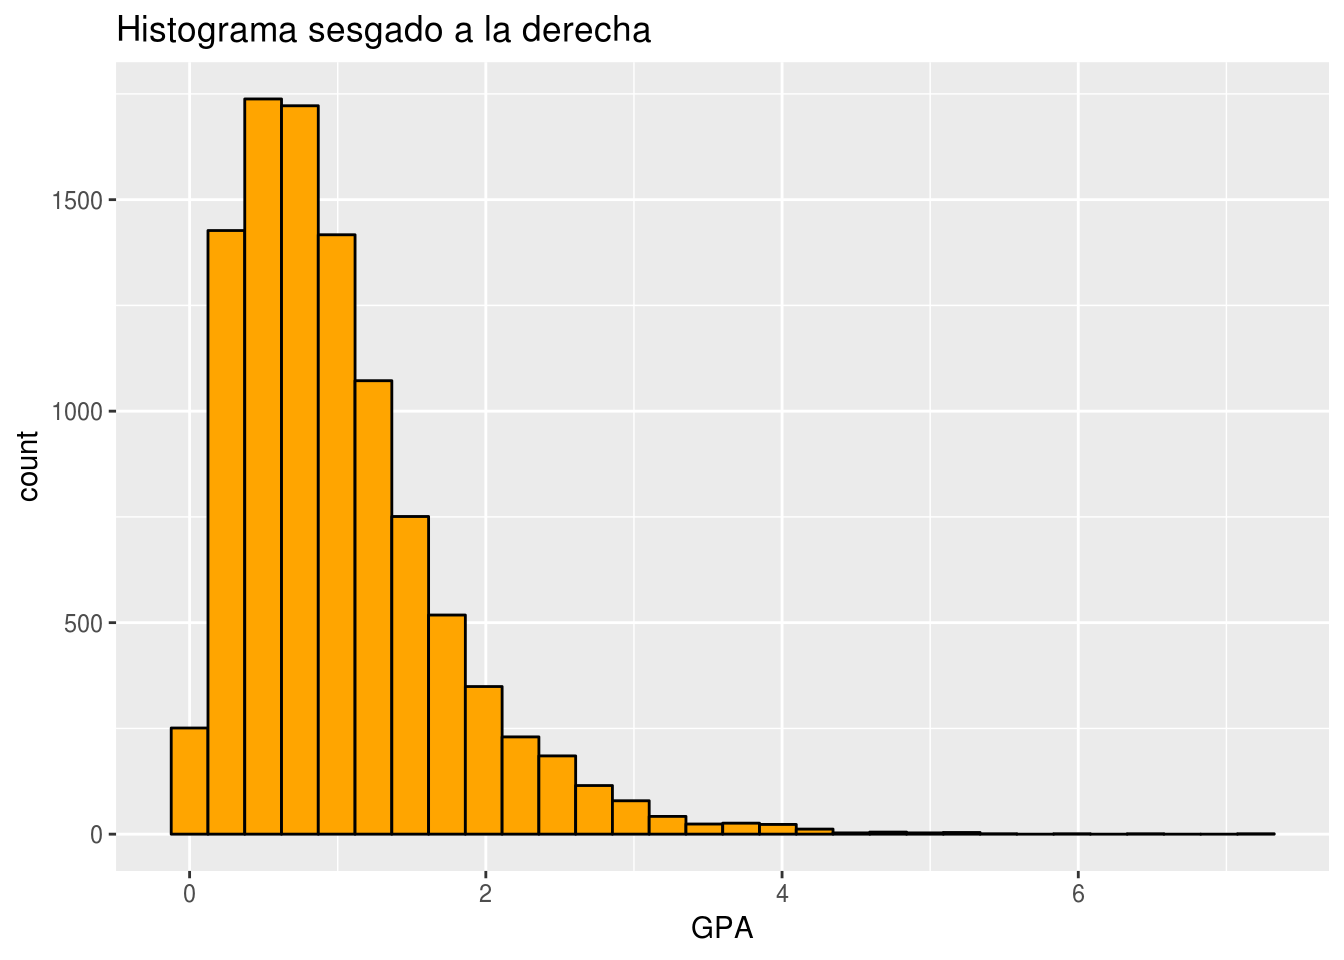
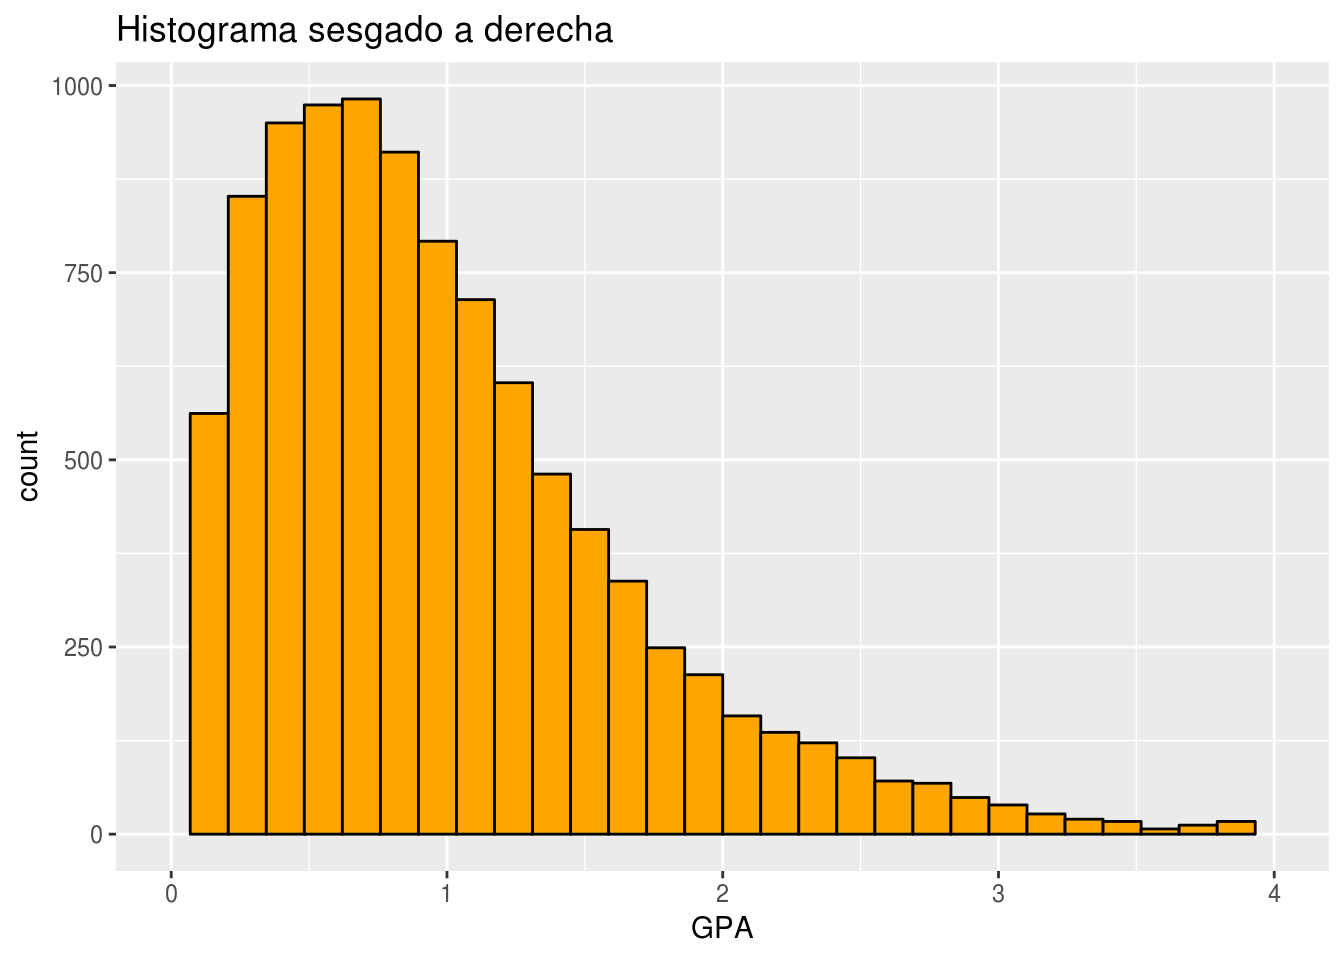
Go!

diff --git a/Esta_descrip.html b/Esta_descrip.html
@@ -554,8 +554,12 @@ ggplot(Estudiantes, aes(x = Estudiantes$hermanos)) +
 <p>Histograma sesgado a derecha</p>
 </blockquote>
 <p>Se refiere a un histograma sesgado a derecha cuando hay menos datos al lado derecho del histograma. En otras palabras un histograma es sesgado a derecha cuando las barras más altas estan al comienzo de la gráfica.</p>
+<pre><code>Warning: Removed 41 rows containing non-finite values (stat_bin).</code></pre>
+<pre><code>Warning: Removed 2 rows containing missing values (geom_bar).</code></pre>
 <p><img src="Esta_descrip_files/figure-html/unnamed-chunk-20-1.png" width="672" /></p>
 <p>Para resumir, veamos los tres tipos de histogramas que podemos encontrar.</p>
+<pre><code>Warning: Removed 41 rows containing non-finite values (stat_bin).</code></pre>
+<pre><code>Warning: Removed 2 rows containing missing values (geom_bar).</code></pre>
 <p><img src="Esta_descrip_files/figure-html/unnamed-chunk-21-1.png" width="672" /></p>
 </div>
 </div>
